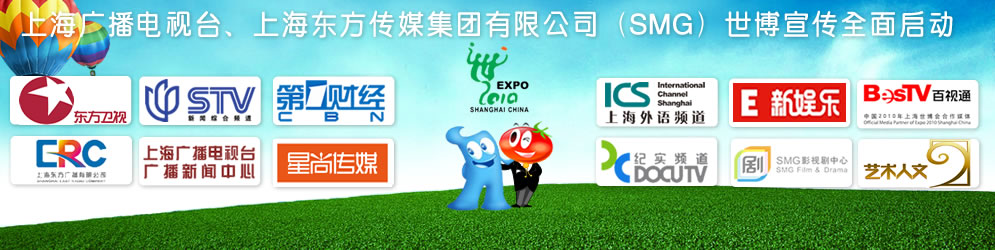
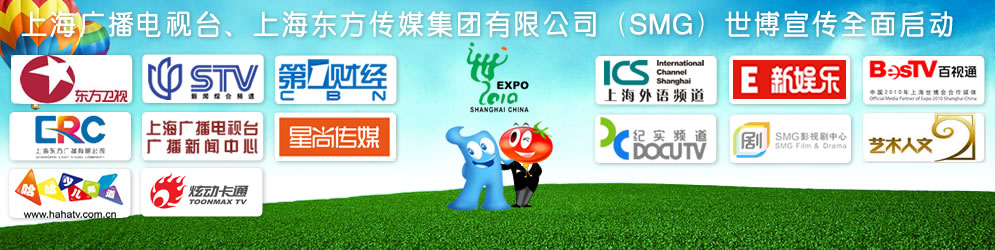
robbin

Changed region(s): [[0.0, 0.196, 0.405, 0.896], [0.592, 0.196, 0.997, 0.756]]

diff --git a/css/top.css b/css/top.css
@@ -11,14 +11,14 @@ li{margin:0px; list-style-type:none;}
 #nav1 #home{width:51px; height:11px; margin-top:3px; margin-right:5px; float:right; display:inline;}
 /*#nimg1{width:995px; height:116px; background:url('/images/shanghailoianghui.jpg') no-repeat; text-align:center; margin:0 auto;}*/
 #bannerimg{width:995px; height:250px; background:url('/images/smg-banner.jpg') no-repeat; margin:0 auto; position:relative;}
-#nimg1{width:400px; margin-top:65px; text-align:center; float:left; display:inline;}
-#nimg2{width:400px; margin-top:68px; margin-right:8px; text-align:center; float:right; display:inline;}
-#fd{width:995px; height:30px; margin-top:30px; background:#666666; filter:alpha(opacity=50); -moz-opacity:0.5; opacity:0.5;  float:left; display:inline;}
+#nimg1{width:400px; margin-top:45px; text-align:center; float:left; display:inline;}
+#nimg2{width:400px; margin-top:48px; margin-right:8px; text-align:center; float:right; display:inline;}
+#fd{width:995px; height:30px; background:#666666; filter:alpha(opacity=50); -moz-opacity:0.5; opacity:0.5;  float:left; display:inline;}
 #fd_l{width:490px; height:30px; top:220px; left:0px; font-size:16px; font-family:微软雅黑 ; color:#ffffff; font-weight:bold; text-align:center; line-height:30px; position:absolute;}
 #fd_l a{color:#ffffff; text-decoration:none;}
 #fd_r{width:490px; height:30px; top:220px; right:0px; font-size:16px; font-family:微软雅黑 ; font-weight:bold; text-align:center; line-height:30px; position:absolute;}
 #fd_r a{color:#ffffff; text-decoration:none;}
-.deptlogo{width:122px; height:51px; margin-top:10px; margin-left:9px; cursor:pointer; float:left; display:inline;}
+.deptlogo{width:122px; height:51px; margin-top:7px; margin-left:10px; cursor:pointer; float:left; display:inline;}
 #nav2{margin-top:2px; width:100%; line-height:20px; height:110px; float:left; display:inline;}
 #nav2 #box{width:995px; height:110px; background:url('/images/top/bg.jpg') no-repeat; margin:0 auto;}
 /*#nav2 #logo{width:162px; height:45px; margin-top:15px; margin-left:10px; background:url(/images/top/logo1.jpg) no-repeat; float:left; display:inline;}*/

diff --git a/inc/top.inc.php b/inc/top.inc.php
@@ -5,7 +5,7 @@
 	$db = get_db();
 	use_jquery();
 	js_include_tag('jquery.cookie','pubfun');
-	//css_include_tag('top');
+	css_include_tag('top');
 	function daysInSpan($start,$end)
 		{
 		 $dayTicks=ticksInDay();
@@ -38,6 +38,8 @@
 		<div class=deptlogo name=7></div>
 		<div class=deptlogo name=8></div>
 		<div class=deptlogo name=9></div>
+		<div class=deptlogo name=13></div>
+		<div class=deptlogo name=14></div>
 	</div>
 	<div id=nimg2>
 		<div class=deptlogo name=4></div>
@@ -233,6 +235,14 @@
 			else if(num==12)
 			{
 				location.href="http://172.27.203.81:8080/blog/?3402";
+			}
+			else if(num==13)
+			{
+				location.href="http://172.27.203.81:8080/blog/?3405";
+			}
+			else if(num==14)
+			{
+				location.href="http://172.27.203.81:8080/blog/?uid-3406";
 			}
 		});
 	});

diff --git a/subject/sxxx2/index.php b/subject/sxxx2/index.php
@@ -58,7 +58,7 @@
 		        $name=$doc->createElement("img_name");    #创建节点对象实体          
 		        $name=$info->appendChild($name);   
 		          
-		        $sex=$doc->createElement("img_link");   
+		        $sex=$doc->createElement("img_link");
 		        $sex=$info->appendChild($sex);
 		        
 		        $thumb=$doc->createElement("thumb_image");   
